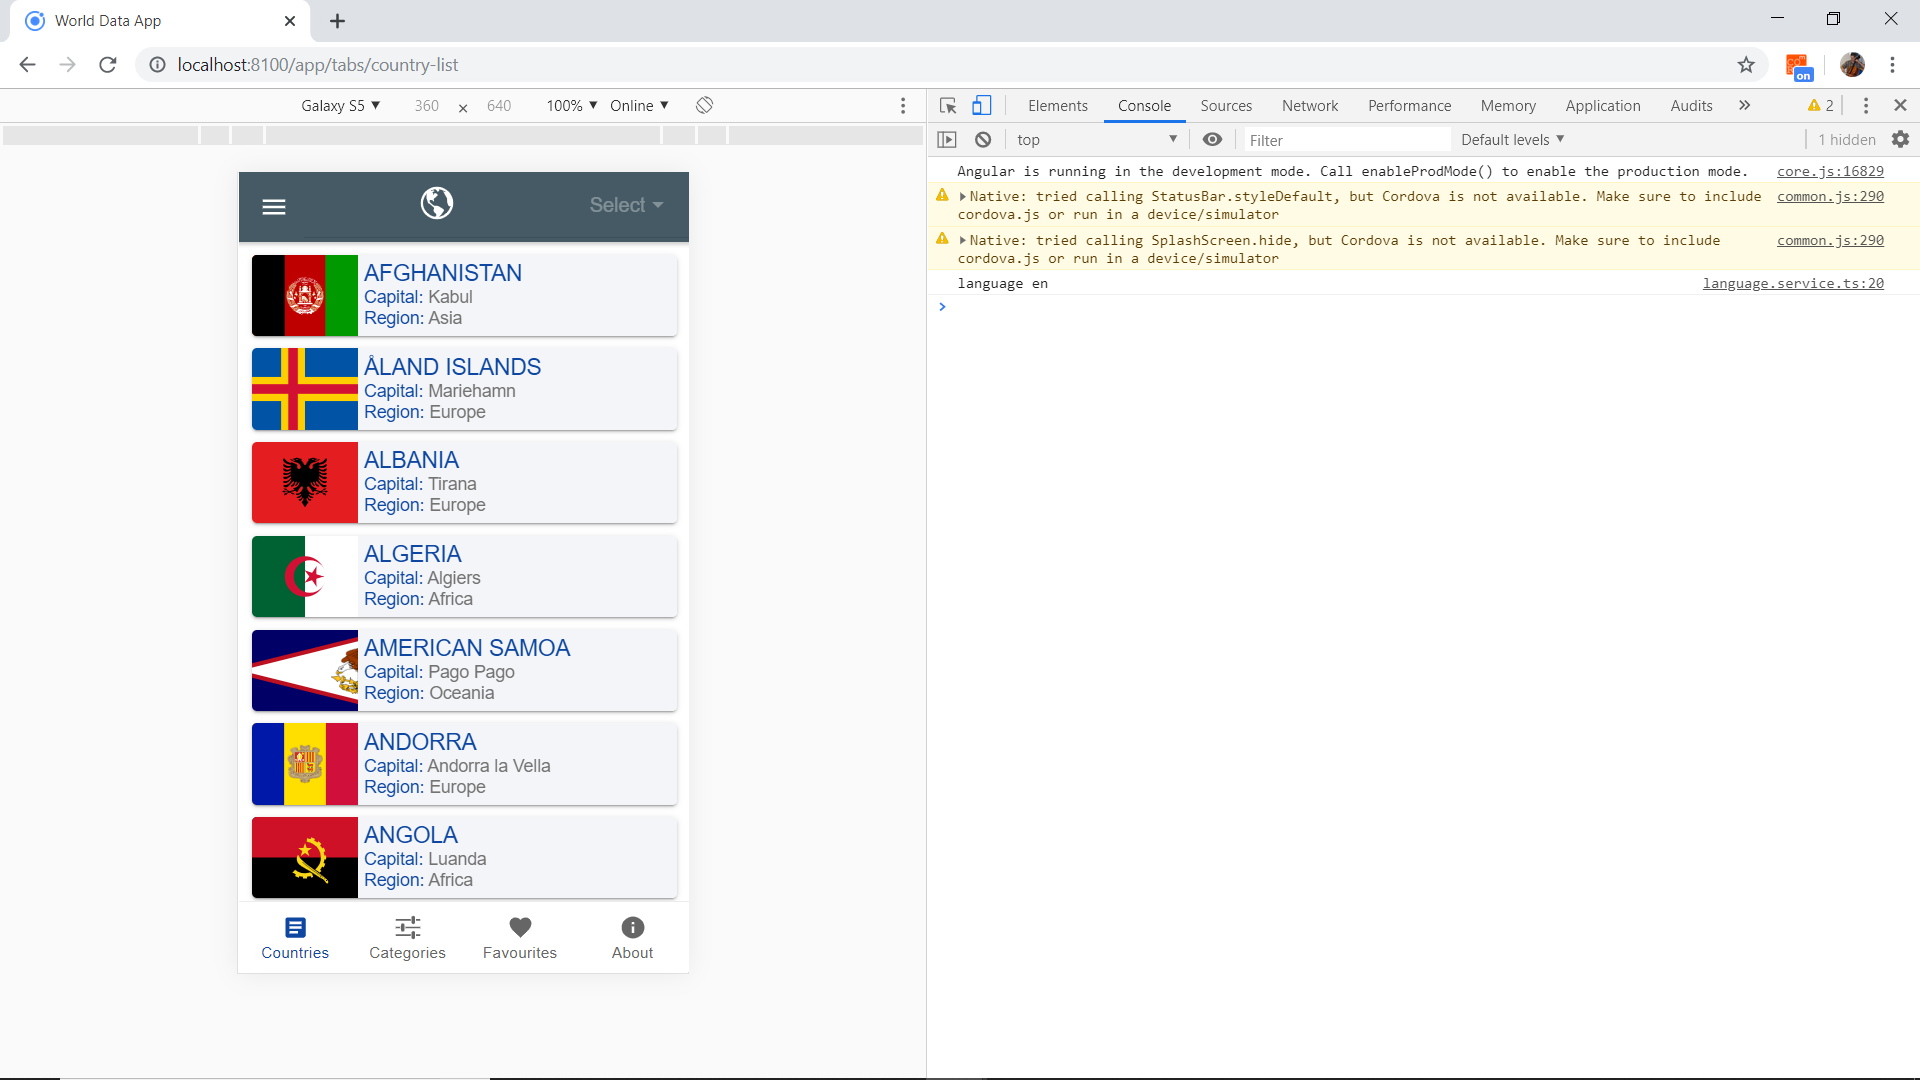
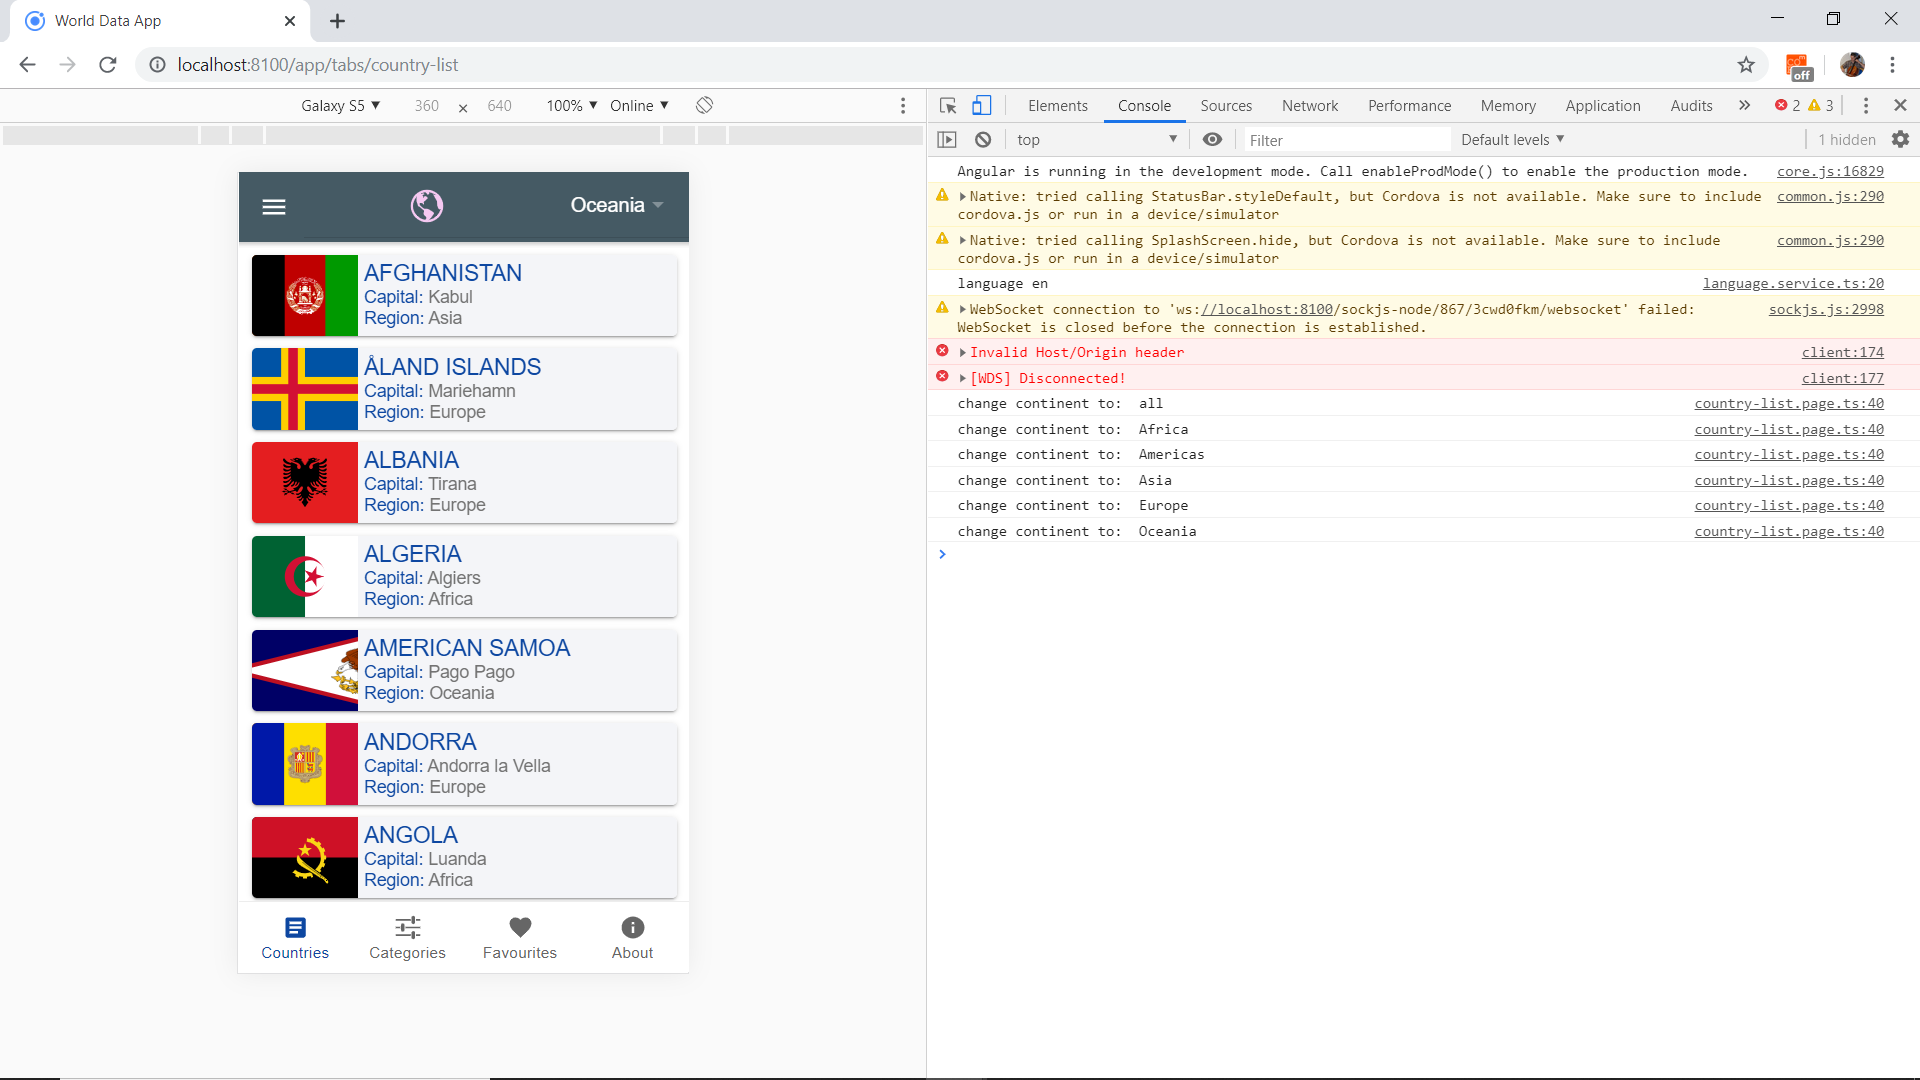
country region pull-down selection now working

diff --git a/src/app/pages/country-list/country-list.page.html b/src/app/pages/country-list/country-list.page.html
@@ -15,12 +15,12 @@
 				placeholder="Select"
 				name="selected"
 				[(ngModel)]="continent"
-				(ionChange)="changeContinent($event)"
+				(ionChange)="getContinentData($event)"
 				class="continent-label"
 				cancelText="{{ 'COUNTRIES.cancel' | translate }}">
 				<ion-select-option
 					*ngFor="let continent of continents"
-					value="{{continent}}">
+					value="{{ continent }}">
 					{{ continent }}
 				</ion-select-option>
 			</ion-select>
@@ -34,97 +34,23 @@
 		<ion-row>
 			<ion-col size="12" size-sm="8" size-ms="8" size-xl="6" offset-sm="2" class="ion-no-padding">
 
-				<div 
-					*ngFor="let country of countries"
-					style="padding: 0;"
-					(click)="showCountryDetail(country)">
-					<app-country-item [country]="country"></app-country-item>
-				</div> 
+				<div *ngIf="!continentChosen">
+					<div 
+						*ngFor="let country of countries"
+						style="padding: 0;"
+						(click)="showCountryDetail(country)">
+						<app-country-item [country]="country"></app-country-item>
+					</div> 
+				</div>
 
-	<!-- <div [ngSwitch]="continent">
-		<ion-list *ngSwitchCase="'All'">
-			<ion-card  class="country-card" *ngFor="let country of countries" (click)="showCountryDetail(country)" no-padding>
-				<ion-card-content no-padding>
-					<ion-item detail="false" lines="none" routerLink="">
-						<ion-avatar slot="start">
-							<img src="{{ country.flag }}" alt="{{ country.title }} flag image">
-						</ion-avatar>
-						{{country.name}}
-					</ion-item>
-
-					<ion-row class="ion-no-padding ion-justify-content-center">
-						<ion-col size="4" class="ion-text-left">
-							<p class="para-text" >
-								<span class="color-text">
-									<ion-icon name="home"></ion-icon>
-								</span>{{country.capital}}
-							</p>
-						</ion-col>
-
-						<ion-col size="4" class="ion-text-center">
-							<p class="para-text" >
-								<span class="color-text">
-									<ion-icon name="map"></ion-icon>
-								</span>{{country.region}}
-							</p>
-						</ion-col>
-
-						<ion-col size="4" class="ion-text-right">
-							<p class="para-text" >
-								<span class="color-text">
-									<ion-icon name="people"></ion-icon>
-								</span>{{country.population}}
-							</p>
-						</ion-col>
-					</ion-row>
-				</ion-card-content>
-			</ion-card>
-		</ion-list>
-
-		<ion-list *ngSwitchCase="'Africa'">
-			<div *ngFor="let country of countries">
-							<ion-card  class="country-card" *ngIf="country.region" (click)="showCountryDetail(country)">
-				<ion-card-content>
-					<ion-item detail="false" lines="none" routerLink="">
-						<ion-avatar slot="start">
-							<img src="{{ country.flag }}" alt="{{ country.title }} flag image">
-						</ion-avatar>
-						{{country.name}}
-					</ion-item>
-
-					<ion-row class="ion-no-padding ion-justify-content-center">
-						<ion-col size="4" class="ion-text-left">
-							<p class="para-text" >
-								<span class="color-text">
-									<ion-icon name="home"></ion-icon>
-								</span>{{country.capital}}
-							</p>
-						</ion-col>
-
-						<ion-col size="4" class="ion-text-center">
-							<p class="para-text" >
-								<span class="color-text">
-									<ion-icon name="map"></ion-icon>
-								</span>{{country.region}}
-							</p>
-						</ion-col>
-
-						<ion-col size="4" class="ion-text-right">
-							<p class="para-text" >
-								<span class="color-text">
-									<ion-icon name="people"></ion-icon>
-								</span>{{country.population}}
-							</p>
-						</ion-col>
-					</ion-row>
-				</ion-card-content>
-			</ion-card>
-			</div>
-
-		</ion-list>
-
-		
-	</div> -->
+				<div *ngIf="continentChosen">
+						<div 
+							*ngFor="let country of countries"
+							style="padding: 0;"
+							(click)="showCountryDetail(country)">
+							<app-country-item [country]="country"></app-country-item>
+						</div> 
+					</div>
 
 			</ion-col>
 		</ion-row>

diff --git a/src/app/pages/country-list/country-list.page.ts b/src/app/pages/country-list/country-list.page.ts
@@ -12,7 +12,8 @@ import { RestApiService } from './../../services/rest-api.service';
 })
 export class CountryListPage implements OnInit {
 
-	continents = ['all', 'Africa', 'Americas', 'Asia', 'Europe', 'Oceana'];
+	continentChosen = false;
+	continents = ['all', 'Africa', 'Americas', 'Asia', 'Europe', 'Oceania'];
 	searchTerm: '';
 	countries: Country[] = [];
 	country: any;
@@ -24,6 +25,7 @@ export class CountryListPage implements OnInit {
 		this.getCountryList('all');
 	}
 
+	// get country info for category 'all' where continent not selected
 	getCountryList(url: string) {
 		return this.restApiService
 			.getCountryData(url)
@@ -32,10 +34,14 @@ export class CountryListPage implements OnInit {
 			});
 	}
 
-	changeContinent(event: any) {
-/* 		this.continent = '';
+	// load country data for continent selected
+	getContinentData(event: any) {
+ 		// this.continent = '';
 		console.log('change continent to: ', event.detail.value);
-		this.getCountryList(event.detail.value); */
+		this.continentChosen = false;
+		event.detail.value = 'all' ? 
+			this.getCountryList('all') :
+			this.getCountryList('region/' + event.detail.value);
 	}
 
 	showCountryDetail(country: any) {

diff --git a/src/app/services/rest-api.service.ts b/src/app/services/rest-api.service.ts
@@ -16,26 +16,5 @@ export class RestApiService {
 	getCountryData(url: string) {
 		return this.http.get(`${apiUrl}/${url}`);
 	}
-	
 
-	// getCountry(country): Observable<string> {
-	// 	return this.http.get<string>(this.nameUrl + 'country');
-	// }
-
-	/* 	private extractData(res: Response) {
-		const body = res;
-		return body || {};
-	}
-
-	private handleError(error: Response | any) {
-		let errMsg: string;
-		if (error instanceof Response) {
-			const err = error || '';
-			errMsg = `${error.status} - ${error.statusText || ''} ${err}`;
-		} else {
-			errMsg = error.message ? error.message : error.toString();
-		}
-		console.error(errMsg);
-		return Observable.throwError(errMsg);
-	} */
 }

diff --git a/src/app/pages/country-list/country-list.page.scss b/src/app/pages/country-list/country-list.page.scss
@@ -2,18 +2,6 @@
   background: #ededed;
 } */
 
-/* h4 {
-	margin: 0;
-} */
-
-.color-text {
-	color: #3880FF;
-}
-
-.para-text {
-	margin: 8px 0 0 16px;
-}
-
 ion-icon {
 	font-size: 1.5rem;
 }
@@ -34,4 +22,9 @@ ion-icon {
   flex: 1 1 auto;
 
   padding: 0;
+}
+
+.icon {
+	vertical-align: middle;
+	color: var(--ion-color-tertiary);
 }

diff --git a/src/app/pages/favourites/favourites.page.scss b/src/app/pages/favourites/favourites.page.scss
@@ -1,0 +1,4 @@
+.icon {
+	vertical-align: middle;
+	color: var(--ion-color-tertiary);
+}

diff --git a/README.md b/README.md
@@ -50,24 +50,24 @@ tba
 * (future) clicking on the More Info button will route to a detailed info page.
 * (future) clicking on the Map button will route to a (Google) Map view of the country.
 * (future) clicking on Analysis will route to World Bank statistics - 2nd API.
-* **Typescript interface** (future) used to define the expected structures of the json objects returned from the IP and news APIs.
+* **Typescript interface** used to define the expected structures of the json objects returned from the IP and news APIs.
 * **Separate services** page with API http fetch functions.
 * **Dark mode** (future) switch on menu changes from light to dark mode.
-* **Offline Storage** (future) of favourite articles using Ionic Storage.
-* **Network** (future) status check in initialisation so latest news data is stored. Template data-binding always from stored data.
-* **Common Refresh Component** (future) dragging down will perform refresh function.
-* **Common Progess Bar Component** (future) ion-card shows while news loading on News, Categories and Favourites pages.
+* **Offline Storage** of favourite articles using Ionic Storage.
+* **Common Progess Bar Component** ion-card shows while news loading on News, Categories and Favourites pages.
 * **Localisation using i18n** so user can select between English (default), Spanish and French.
 
 ## Navigation/Pages
 
-* **Nav side-bar:** countries, categories, favorites, search, about, change language, dark theme toggle + Unsplash image with credit.
+* **Nav side-bar:** countries, categories, favorites, search, about, change language, dark theme toggle + Unsplash image with credit. Change color of tabs bar - add blue top border??
 * **TODO** add menu close function.
 
-* **Countries page** Simple list of cards working for 'all' category.
+* **Countries page:** Simple list of cards working for 'all' and all region categories.
 **TODO:** Include search bar at top. Link to Country Detail page - footer: link to map, link to Wikipedia? link to World Bank Data?
 
-* **Categories** Replace with quiz?
+* **Country Detail page:** TODO
+
+* **Categories** Replace with quiz? Change title to QUIZ. or news??
 
 * **Favourites** Replace with..map? just a map you can zoom in?
 
@@ -77,7 +77,7 @@ tba
 
 * Status: Working Country List page. Ion segment used to allow user to select country_list by continent. Routes to detail page but data binding not working due to api get error.
 
-* To-do: Change ion-segment to ion-select-option or top bar menu sliding columns. Add search, fix detail page. Add filter to filter countries by select option chosen (ie Africa, Europe etc). Add to categories page/add extra pages with rankings data from World Bank etc. Add contact info to about page. Add scss color themes. Look at CIA Fact Book for info - API?
+* To-do: Add to categories page/add extra pages with rankings data from World Bank etc. Add contact info to about page. Add scss color themes. Look at CIA Fact Book for info - API?
 
 ## Inspiration
 
